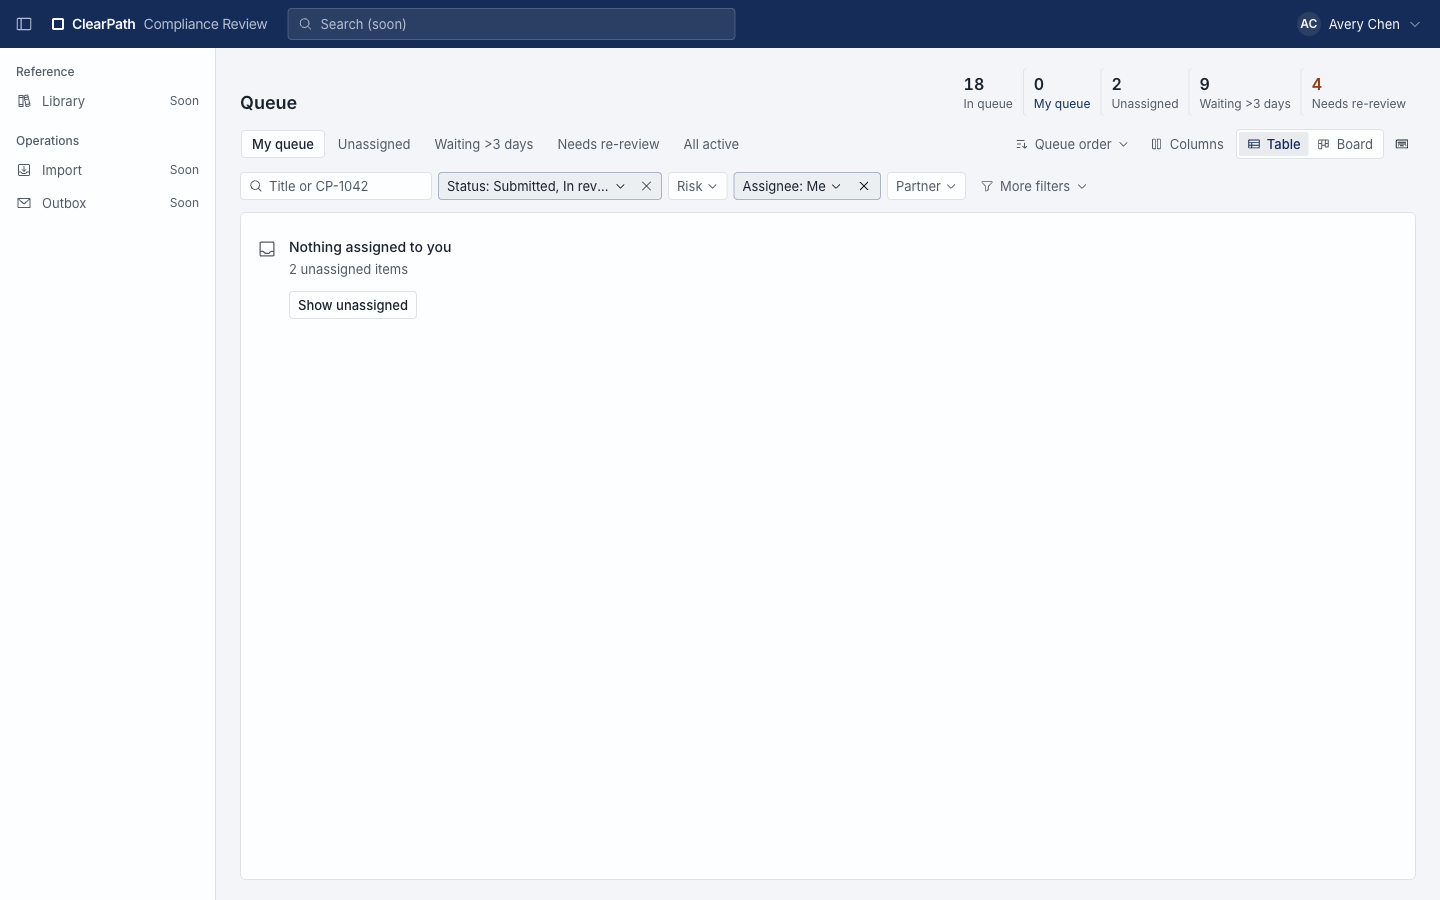
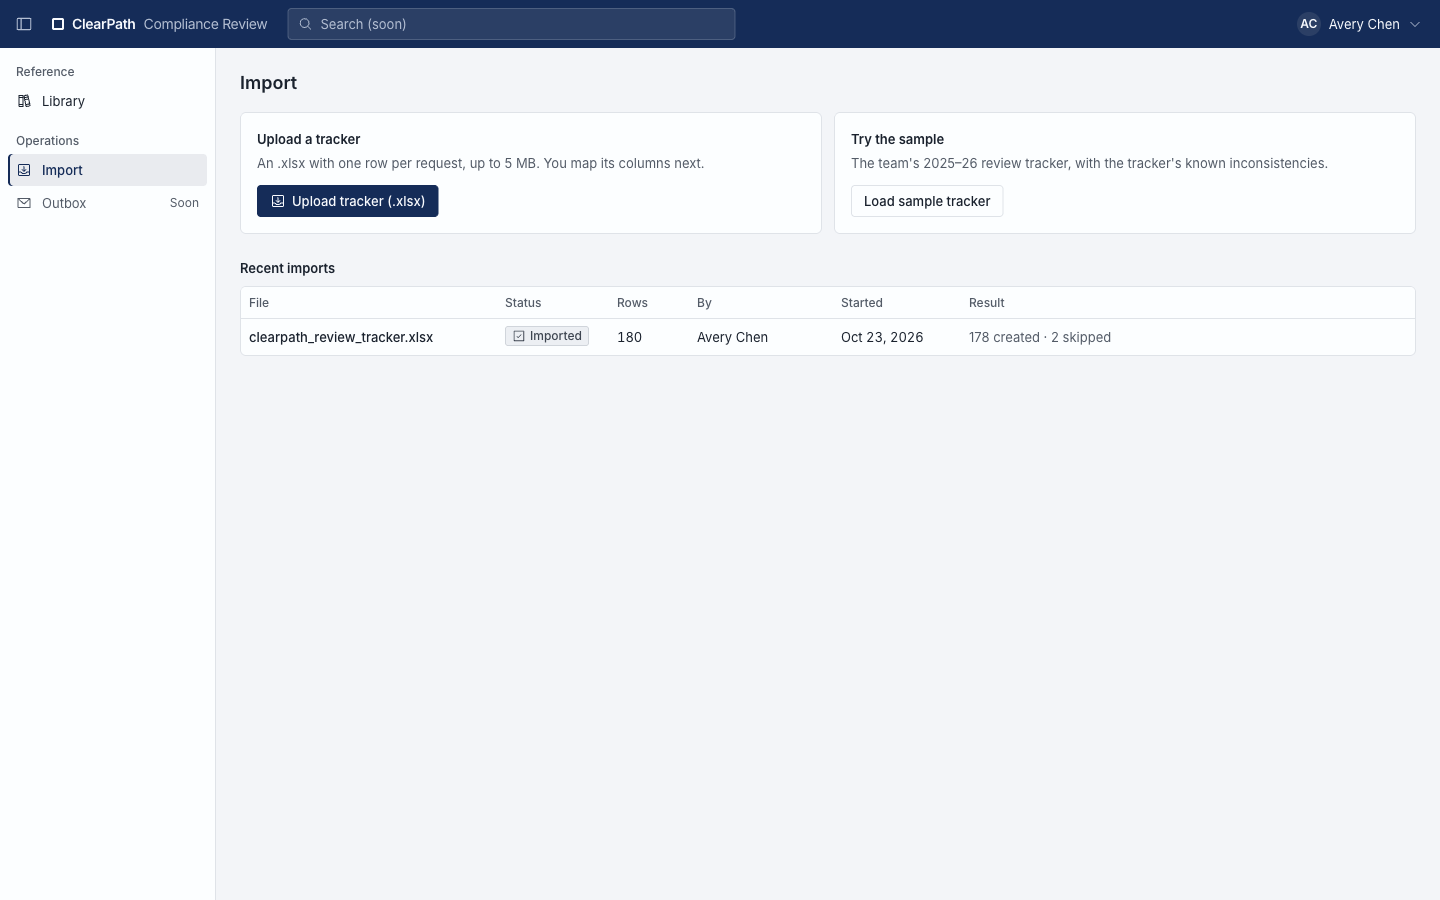
Hosted demo password from SSM, seed after migrate, and the decision on tracker dates
- Terraform generates DEMO_USER_PASSWORD (SecureString); render-env.sh refuses
  to deploy without it; prod settings refuse the published password where it's
  used (not at import: collectstatic runs prod settings without secrets), and a
  refused Reset demo says why on the job.
- seed_demo runs after migrate: in compose.yaml's web command, and in deploy.sh
  right after its one-off migrate (prod doesn't migrate on container start).
- docs: infra/README Demo logins, demo.md hosted password and landing screens;
  report records the tracker-dates decision with three options.

diff --git a/backend/accounts/tests/test_seed_demo_users.py b/backend/accounts/tests/test_seed_demo_users.py
@@ -1,6 +1,9 @@
+import importlib
+
 import pytest
 from django.core.management import CommandError, call_command
 from pydantic import SecretStr
+from pytest_django import Settings
 
 from accounts.models import User
 from core.domain import Role
@@ -61,3 +64,32 @@ def test_without_a_password_the_documented_one_is_used(monkeypatch: pytest.Monke
     call_command("seed_demo_users")
 
     assert User.objects.get(email="lead@clearpath.demo").check_password(DOCUMENTED_PASSWORD)
+
+
+@pytest.mark.django_db
+@pytest.mark.parametrize("configured", [None, SecretStr(""), SecretStr(DOCUMENTED_PASSWORD)])
+def test_where_the_default_isnt_allowed_the_published_password_is_refused(
+    monkeypatch: pytest.MonkeyPatch, settings: Settings, configured: SecretStr | None
+) -> None:
+    """Production: the documented password is in a public repo, so it can't be the hosted demo's."""
+    settings.DEMO_PASSWORD_DEFAULT_ALLOWED = False
+    monkeypatch.setattr("demo.users.env.demo_user_password", configured)
+
+    with pytest.raises(CommandError, match="DEMO_USER_PASSWORD"):
+        call_command("seed_demo_users")
+
+    assert not User.objects.exists()
+
+
+@pytest.mark.django_db
+def test_where_the_default_isnt_allowed_a_configured_password_is_used(demo_password: str, settings: Settings) -> None:
+    settings.DEMO_PASSWORD_DEFAULT_ALLOWED = False
+
+    call_command("seed_demo_users")
+
+    assert User.objects.get(email="admin@clearpath.demo").check_password(demo_password)
+
+
+def test_production_settings_refuse_the_default_and_base_settings_allow_it() -> None:
+    assert importlib.import_module("config.settings.base").DEMO_PASSWORD_DEFAULT_ALLOWED is True
+    assert importlib.import_module("config.settings.prod").DEMO_PASSWORD_DEFAULT_ALLOWED is False

diff --git a/backend/demo/tests/test_api.py b/backend/demo/tests/test_api.py
@@ -9,6 +9,7 @@ from typing import Any
 import pytest
 from django.core.management import call_command
 from django.test import Client
+from pytest_django import Settings
 
 from accounts.models import User
 from core.clock import FixedClock
@@ -97,6 +98,25 @@ def test_a_failed_reset_is_reported_on_the_job(
     failed = client.get(f"/api/admin/demo/resets/{job['id']}").json()
     assert failed["status"] == "failed"
     assert failed["error"] == tasks.FAILED_MESSAGE
+
+
+def test_a_reset_refused_for_the_published_password_says_why(
+    personas: dict[str, User],
+    monkeypatch: pytest.MonkeyPatch,
+    settings: Settings,
+    django_capture_on_commit_callbacks: OnCommit,
+) -> None:
+    settings.DEMO_PASSWORD_DEFAULT_ALLOWED = False
+    monkeypatch.setattr("demo.users.env.demo_user_password", None)
+    client = _signed_in("admin@clearpath.demo")
+
+    with django_capture_on_commit_callbacks(execute=True):
+        job = client.post("/api/admin/demo/reset").json()
+
+    failed = client.get(f"/api/admin/demo/resets/{job['id']}").json()
+    assert failed["status"] == "failed"
+    assert "DEMO_USER_PASSWORD isn't set" in failed["error"]
+    assert not ReviewItem.objects.exists()
 
 
 def test_a_reset_whose_worker_vanished_reads_as_failed_and_a_new_request_starts_fresh(

diff --git a/backend/demo/users.py b/backend/demo/users.py
@@ -8,6 +8,7 @@ of these accounts can reach django-admin.
 from collections.abc import Iterable
 from typing import Final
 
+from django.conf import settings
 from django.contrib.auth.password_validation import validate_password
 from django.core.exceptions import ValidationError
 from django.db import transaction
@@ -21,9 +22,20 @@ DOCUMENTED_PASSWORD: Final = "ClearPath-demo-2026"  # noqa: S105  # public by de
 
 
 def demo_password() -> str:
+    """DEMO_USER_PASSWORD, else the documented one where that's allowed (not in production: it's public)."""
     secret = env.demo_user_password
     value = secret.get_secret_value() if secret is not None else ""
-    return value or DOCUMENTED_PASSWORD
+    if settings.DEMO_PASSWORD_DEFAULT_ALLOWED:
+        return value or DOCUMENTED_PASSWORD
+    if not value:
+        raise InvalidInput.for_field(
+            "password", "DEMO_USER_PASSWORD isn't set. This environment needs its own demo password."
+        )
+    if value == DOCUMENTED_PASSWORD:
+        raise InvalidInput.for_field(
+            "password", "DEMO_USER_PASSWORD is the published demo password. This environment needs its own."
+        )
+    return value
 
 
 def check_password_strength(password: str) -> None:

diff --git a/backend/demo/tasks.py b/backend/demo/tasks.py
@@ -6,6 +6,7 @@ import time
 
 from celery import shared_task
 
+from core.errors import InvalidInput
 from demo import services
 from demo.reset import reset_demo
 
@@ -24,6 +25,11 @@ def run_demo_reset(reset_id: int) -> str:
     logger.info("demo reset start reset_id=%d", reset_id)
     try:
         result = reset_demo(requested_by=job.requested_by)
+    except InvalidInput as exc:
+        # Configuration the admin can act on (the demo password); checked before anything is touched.
+        logger.warning("demo reset refused reset_id=%d: %s", reset_id, exc.message)
+        services.fail_reset(reset_id=reset_id, error=exc.message)
+        outcome = "failed"
     except Exception:
         logger.exception("demo reset failed reset_id=%d", reset_id)
         services.fail_reset(reset_id=reset_id, error=FAILED_MESSAGE)

diff --git a/backend/config/settings/base.py b/backend/config/settings/base.py
@@ -208,6 +208,11 @@ ANTHROPIC_API_KEY: str | None = (
 ) or None
 ANTHROPIC_MODEL = env.anthropic_model
 
+# --- Demo (demo.users) ---
+# Without DEMO_USER_PASSWORD, demo logins use the password published in docs/demo.md. Production turns this off:
+# that password is public, and an admin login can wipe the demo.
+DEMO_PASSWORD_DEFAULT_ALLOWED = True
+
 # --- Celery ---
 CELERY_BROKER_URL = env.redis_url
 CELERY_RESULT_BACKEND = None

diff --git a/backend/config/settings/prod.py b/backend/config/settings/prod.py
@@ -11,3 +11,7 @@ SECURE_HSTS_SECONDS = 60 * 60 * 24 * 365
 SECURE_HSTS_INCLUDE_SUBDOMAINS = True
 SECURE_CONTENT_TYPE_NOSNIFF = True
 X_FRAME_OPTIONS = "DENY"
+
+# The published demo password is refused where it's used (seed_demo, Reset demo, seed_demo_users), not at import:
+# collectstatic runs these settings at build time without any app secrets.
+DEMO_PASSWORD_DEFAULT_ALLOWED = False

diff --git a/docs/plan/reports/demo-seed.md b/docs/plan/reports/demo-seed.md
@@ -47,14 +47,14 @@ Runtime is about 11 s on a laptop, from both the command and the UI button with 
 
 ## Verification
 
-- Backend, after rebasing on `64c7fb6`:
-  - `pytest`: 1459 passed;
+- Backend, after rebasing on `78ed50f`:
+  - `pytest`: 1476 passed;
   - `ruff check`, `ruff format --check` and `pyrefly check` (0 errors) are clean;
   - `makemigrations --check` reports no changes;
   - the exported schema matches the committed one;
   - `make semgrep` reports 0 findings.
 - Frontend, after the rebase:
-  - `npm run test:run`: 460 passed;
+  - `npm run test:run`: 567 passed;
   - `typecheck`, `lint`, `format:check` and `build` are clean.
 - Demo tests (`backend/demo/tests/`, 37 in all):
   - the catalog is pure: rule coverage, AI quotes are substrings, steps are in order;
@@ -106,10 +106,9 @@ Runtime is about 11 s on a laptop, from both the command and the UI button with 
 
 ## Risks and open questions
 
-- **Tracker history overlaps native history.** The sample tracker (a fixed fixture, Nov 3 2025 – Oct 23 2026)
-  runs right up to yesterday, so Metrics shows Excel and the tool in use side by side for the native ten weeks.
-  It reads as a pilot period, which is defensible. If not, the fix is in `scripts/generate_sample_tracker.py`
-  (end its dates ~10 weeks back), not in L.
+- **Tracker history overlaps native history (open decision, below).** The sample tracker (a fixed fixture,
+  Nov 3 2025 – Oct 23 2026) runs right up to yesterday, so Metrics shows Excel and the tool in use side by side
+  for the native ten weeks.
 - **CP-220 only stays pending for ~10 minutes.** At 10 minutes the reconciler re-enqueues the run on the real
   model. With an API key it gets a real review; without one it fails ("no Anthropic API key"). That's inherent
   to a pending check, and `docs/demo.md` says so.
@@ -119,29 +118,85 @@ Runtime is about 11 s on a laptop, from both the command and the UI button with 
 - **Only Django-model tables are wiped.** `domain_tables()` comes from `apps.get_models()`. If K's LangGraph
   checkpointer keeps its own non-model tables, a reset leaves old assistant threads behind; those would need
   adding to the TRUNCATE list.
-- **Finding for J: marketer and admin land on a page that isn't in their nav.** The index route sends every
-  role to the Queue (`/?view=mine&status=…`). Queue isn't in the marketer's or admin's nav, so their first
-  screen is an empty queue they can't get back to (`marketer.png`, `admin.png`). The marketer should land on
-  **My submissions**. `docs/demo.md` describes what happens today; I didn't change the route because it isn't
-  L's file.
 - **The reset holds an advisory lock and truncates every domain table for ~10 s.** Requests in that window wait
   on the lock. Fine for a demo, and the reason it's admin-only.
 
-## Decisions needed
+## Settled with the orchestrator, and built
 
-1. **The documented default password `ClearPath-demo-2026` is in code** (`demo/users.py`) and used when
-   `DEMO_USER_PASSWORD` is unset. On the hosted demo that means anyone who reads the repo can sign in as admin
-   and press Reset. The alternative is to set `DEMO_USER_PASSWORD` in the deploy's secrets and publish it
-   alongside the URL. That costs one more secret, and `docs/demo.md` already reads "or the deployment's".
-   Recommendation: set it on the hosted deploy. The admin can wipe everything there, and a published password
-   in a public repo is effectively public.
-2. **Seeding the tracker import vs leaving it for the admin.** It's seeded now, so Metrics and the Library have
-   history from the first click. The cost: the admin's Import screen shows a finished import instead of an
-   empty state to try the flow. They can still upload `samples/` again, which skips rows already imported (by tracker ID).
-3. **`seed_demo` on deploy.** Nothing in `infra/` runs it today, so a fresh deploy has no demo until someone
-   runs the command or clicks Reset. Options:
-   - (a) a one-off `seed_demo` step in the deploy runbook, which is idempotent and does nothing if data exists;
-   - (b) run it in the container entrypoint after migrate. This is also safe, because it's a no-op when items
-     exist, but it adds ~11 s to the first boot.
+1. **Hosted password.**
+   - Terraform generates `/clearpath/prod/DEMO_USER_PASSWORD`: a `random_password`, SecureString, 20 letters and
+     digits. It follows the pattern of `DJANGO_SECRET_KEY`.
+   - It isn't write-only, because evaluators have to be given it. `infra/README.md` ("Demo logins") shows how to
+     read it.
+   - `render-env.sh` refuses to deploy if it, `DJANGO_SECRET_KEY` or `POSTGRES_PASSWORD` is missing. I checked
+     this with stubbed `aws` and `curl`.
+   - Prod settings set `DEMO_PASSWORD_DEFAULT_ALLOWED = False`, and `demo_password()` then refuses an unset value
+     or the published one. The check is where the password is used, not at settings import, because
+     `deploy.yaml` runs `collectstatic` on prod settings with no app secrets.
+   - A refused Reset demo shows the reason on the job.
+2. **The tracker import stays seeded.**
+3. **Seeding on start.**
+   - `compose.yaml`'s web service runs `migrate && seed_demo && uvicorn`.
+   - Prod doesn't migrate on container start: `deploy.sh` runs `migrate` as a one-off before `up`, and nothing else
+     starts the stack (`user_data` only installs Docker). So `seed_demo` runs right after that step in
+     `deploy.sh`, not in `compose.prod.yaml`.
+   - Two reasons. A failed seed stops the deploy while the old containers still serve. And the first seed
+     against RDS doesn't eat into the web healthcheck window (start 20 s + 6 × 10 s).
+   - `compose.prod.yaml`'s header says where it happens.
+5. **Landing route by role.**
+   - The queue moved from `/` to `/queue`. `/` renders a `<Navigate replace>` to `landingFor(roles)`:
+     - reviewer or lead → `/queue`;
+     - marketer → `/mine`;
+     - admin → `/import`;
+     - no roles → `/library`.
+   - With several roles, work comes first: a lead who is also an admin lands on the queue.
+   - It's a component, not `beforeLoad`, because the viewer comes from `SessionGate`, so there's no sign-in race.
+   - Updated: the nav, the Metrics "waiting" links, `QueuePage`'s route ID, and the unit, browser and e2e tests.
+   - Separately, `e2e/shell.spec.ts` still asserted that reviewers don't see Offer terms. #36 changed that and CI
+     doesn't run e2e, so it was already failing on main. It now asserts against Metrics, which is lead-only.
 
-   Recommendation: (b), since it is the no-op path on every boot after the first.
+## Decision needed: the tracker's dates (item 4)
+
+**The ask.**
+- End the sample tracker the day before the tool's go-live, about 10 weeks before the seed clock.
+- Totals unchanged.
+- Go-live is a shared value relative to the seed clock, so a reset months later keeps the split.
+
+**Why it can't be built as stated.** The generator (`scripts/generate_sample_tracker.py`) simulates on a fixed
+calendar, and its random path depends on calendar dates:
+- `submission_dates` buckets by calendar month (`MONTHLY_VOLUME`).
+- `pick_theme` filters seasonal themes by `submitted.month` (line 1159): "Holiday Expenses" in months 11–12,
+  "Back to School" in 7–8, "Tax Season" in 1–4.
+- The holidays and the freeze window decide which days are workdays.
+- Request IDs carry a per-year counter (`MCR-YY-nnn`, line 1145), and year-less dates are inferred from that
+  prefix.
+
+The three ways to satisfy part of the ask:
+
+- **(a) Re-anchor the simulation to a go-live argument, and run it at reset time.**
+  - The generator moves into the backend so the seed can call it. `scripts/` becomes a thin wrapper, because the
+    image's build context is `backend/`.
+  - The window becomes [go-live − ~50 weeks, go-live − 1 day], with seasons following real months.
+  - Cost:
+    - The row count can stay 178, but the status, issue and problem-row mix changes, so the README oracle and G's
+      oracle tests change.
+    - Those numbers also differ for every go-live date, so the seed's tests would assert ranges instead of exact
+      counts.
+    - It's the largest change, and it lands in G's oracle.
+- **(b) Simulate as today, and shift only the rendered dates by whole weeks.**
+  - Every total stays identical, and it also works at reset time.
+  - Cost:
+    - Seasonal campaigns render out of season (a 10-week shift puts "Holiday Expenses" in September).
+    - Request IDs either collide across the shifted year boundary or carry the wrong year, which breaks the
+      importer's year inference.
+    - The "2026" note row lands in the wrong place.
+- **(c) Re-anchor once, statically.**
+  - Regenerate the committed tracker so it ends 2026-08-14, the day before a go-live 10 weeks back, with the seed
+    importing it as today.
+  - Exact split for a reset now. A reset N weeks later shows an N-week gap between the tracker's end and the
+    tool's start, but never an overlap.
+  - Cost: the README oracle and G's oracle tests change once, apart from the row count.
+
+**Recommendation: (c).** The hosted demo's life is weeks, so a growing gap is tolerable, while (b) produces visibly
+wrong content and (a) puts a moving target under G's oracle tests. If a reset months out really matters, (a) is
+the only correct option.

diff --git a/docs/demo.md b/docs/demo.md
@@ -7,7 +7,8 @@ comments, notifications and metrics are what the product itself would have recor
 
 ## Logins
 
-Password for every account: `ClearPath-demo-2026` (or the deployment's `DEMO_USER_PASSWORD`).
+Password for every account: on the hosted demo, the password you were given with the link (it's generated per deployment;
+the published one below is refused there). Locally, `ClearPath-demo-2026` unless `DEMO_USER_PASSWORD` is set.
 
 | Role | Email | Who |
 |---|---|---|
@@ -56,11 +57,9 @@ she can also:
   influencer), each with its agreement attached;
 - check **Metrics**: ten weeks of submissions, findings and decisions behind them.
 
-(Screens marked "Soon" in the nav haven't shipped in this build; their data is already seeded.)
-
 ### Marketer (Priya)
 
-Sign-in opens the shared queue view; open **My submissions** in the nav.
+You land on **My submissions**.
 
 - **Waiting on you**: **CP-22** came back with changes requested. Samuel's note asks for the card issuer line,
   so **Resubmit** with it added. **CP-10** and **CP-11** expired, one after the rate change and one past its
@@ -70,7 +69,7 @@ Sign-in opens the shared queue view; open **My submissions** in the nav.
 
 ### Admin (Avery)
 
-Sign-in opens the shared queue view (Avery reviews nothing, so it's empty).
+You land on **Import**.
 
 - **Import** shows the Excel tracker import that brought in the 178 legacy rows (matched to partners where the
   tracker named one). They're in the **Library** with `legacy=only`.
@@ -95,6 +94,7 @@ uv run python manage.py seed_demo          # no-op if items exist
 uv run python manage.py seed_demo --reset  # wipe and reseed
 ```
 
-`seed_demo` keeps user accounts and sessions; it wipes items, partners, offer terms, imports, findings, events
+Containers seed on start: `compose.yaml`'s web service and `deploy/deploy.sh` run `seed_demo` after
+`migrate`, which does nothing once items exist. `seed_demo` keeps user accounts and sessions; it wipes items, partners, offer terms, imports, findings, events
 and notifications. People are upserted from `backend/demo/content/people.py`, and the password changes only if it
 differs, so existing sessions survive.

diff --git a/infra/README.md b/infra/README.md
@@ -85,6 +85,23 @@ unset KEY
 It takes effect on the next deploy (render-env.sh re-reads SSM). To apply it without a code change,
 run the Deploy workflow manually from main (`gh workflow run deploy.yaml --ref main`).
 
+## Demo logins
+
+Terraform generates the hosted demo's password into `/clearpath/prod/DEMO_USER_PASSWORD` (a SecureString;
+like the other generated secrets it's also in Terraform state). Every demo account in `docs/demo.md` uses it.
+The app refuses the password published in the repo in production, and `render-env.sh` refuses to deploy without
+this parameter. Read it to hand to evaluators:
+
+```sh
+aws ssm get-parameter --profile clearpath --region us-east-1 \
+  --name /clearpath/prod/DEMO_USER_PASSWORD --with-decryption --query Parameter.Value --output text
+```
+
+`deploy.sh` runs `seed_demo` after migrating; it seeds only when the database has no items, so the first deploy
+creates the demo and later deploys leave it alone. To rotate the password, `put-parameter --overwrite` a new
+value (12+ characters, not common) and redeploy, then press **Reset demo** (or run `seed_demo --reset`): the
+seed sets each demo account's password.
+
 ## Rollback
 
 `deploy.sh` stops with the new containers in place if `up --wait` or the health check fails, so prod
@@ -102,7 +119,7 @@ expand-only (backward-compatible with the previous release).
 ## Runtime configuration
 
 Every direct child of `/clearpath/prod/` becomes a line in `/srv/clearpath/.env` on each deploy:
-secrets (`DJANGO_SECRET_KEY`, `POSTGRES_PASSWORD`, `ANTHROPIC_API_KEY`) and plain config Terraform
+secrets (`DJANGO_SECRET_KEY`, `POSTGRES_PASSWORD`, `DEMO_USER_PASSWORD`, `ANTHROPIC_API_KEY`) and plain config Terraform
 derives (`POSTGRES_HOST`, `DJANGO_ALLOWED_HOSTS`, `DJANGO_CSRF_TRUSTED_ORIGINS`, `FRONTEND_BASE_URL`,
 `DOCUMENTS_BUCKET`, ...). To add a setting, add it to `local.app_config` in `main/config.tf` (or
 `put-parameter` by hand for secrets) and redeploy.
